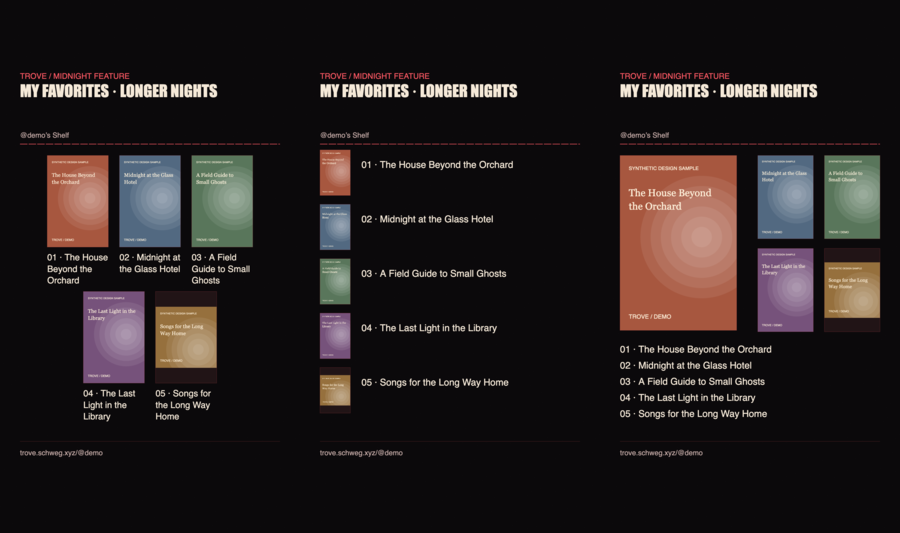
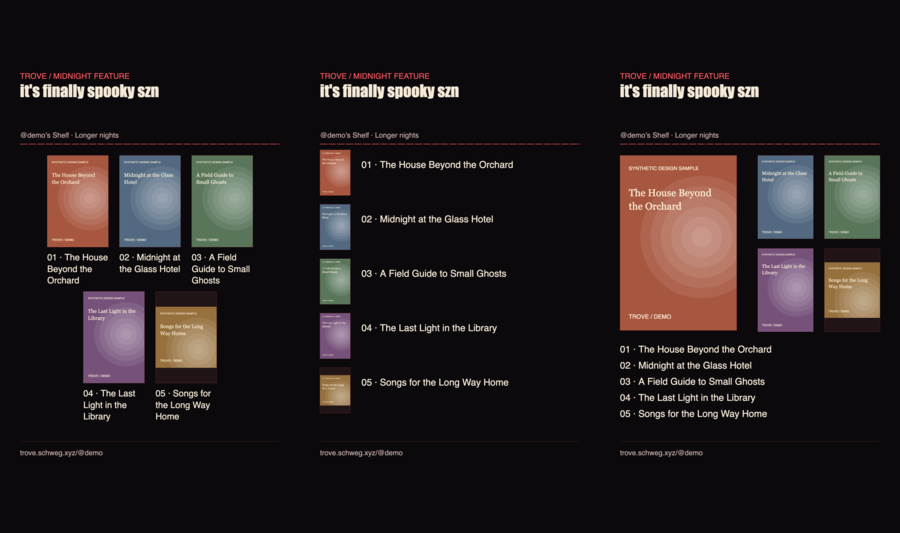
refine: clarify saved preset layout and retain final motion and headline evidence

diff --git a/app/assets/stylesheets/_appearance_menu.scss b/app/assets/stylesheets/_appearance_menu.scss
@@ -1,4 +1,6 @@
 @mixin styles {
+.settings-form .appearance-preset-choices { grid-template-columns: repeat(2, minmax(0, 1fr)); }
+.settings-form .appearance-help { grid-column: 1 / -1; margin: 0; font-size: 14px; line-height: 1.6; color: var(--text-secondary); }
 .appearance-menu { position: relative; flex: 0 0 auto; color: var(--text); }
 .appearance-menu > summary { display: flex; align-items: center; justify-content: center; gap: 8px; min-height: 44px; padding: 8px 10px; border: 1px solid var(--border); border-radius: 8px; cursor: pointer; font-size: 13px; list-style: none; }
 .appearance-menu > summary::-webkit-details-marker { display: none; }

diff --git a/spec/system/halloween_system_spec.rb b/spec/system/halloween_system_spec.rb
@@ -93,6 +93,7 @@ RSpec.describe 'Halloween invitation', type: :system do
     expect(user.theme).to eq('os')
     expect(page).to have_checked_field('Halloween night')
     expect(page).to have_no_button('Turn on Halloween mode')
+    page.execute_script('window.scrollTo(0, 0)')
     capture_ui_screenshot('saved-halloween-settings-desktop')
     visit shelf_path(user.username, category: 'Movie', theme: 'electric')
     find('summary[aria-label="Appearance"]').click
@@ -109,6 +110,9 @@ RSpec.describe 'Halloween invitation', type: :system do
     expect(page).to have_checked_field('Halloween night')
     resize_browser_viewport(390, 844)
     expect(page.evaluate_script('document.documentElement.scrollWidth <= innerWidth')).to be(true)
+    page.execute_script(<<~JS)
+      document.querySelector("#user_seasonal_theme_halloween").closest("fieldset").scrollIntoView({block: "center"})
+    JS
     capture_ui_screenshot('saved-halloween-settings-mobile')
   end
 end

diff --git a/docs/design/shelf-refinements.md b/docs/design/shelf-refinements.md
@@ -40,3 +40,5 @@ A saved custom headline is primary on the showcase, every category page and ever
 DOM and metadata values are escaped. Canvas titles wrap within bounded geometry, with grapheme-aware truncation for long Unicode text and a safe missing-headline fallback. The preview signature version changed so an obsolete card cannot masquerade as a current headline-aware card; owners can explicitly republish their social preview using the existing action. Preview, download and publish share the same renderer.
 
 Existing explicit v2 browser choices are recognized when the only preference change is the newly added default preset field. They retain their prior appearance/Undo snapshot and migrate to the same signed-in preset, while viewer changes or changes to base account preferences still invalidate the old override. This is a one-time explicit-choice migration, not an automatic promotion.
+
+Final focused verification: 28 request examples, 35 JavaScript tests, 14 browser examples, a final seven-example persistence/headline pass and the targeted mobile settings capture passed. Ruby lint inspected 574 files; the final capture adjustment is lint-clean. Native cards now show the shared custom headline and category subtitle. The two real animation captures show improved atmosphere and mascot activation/dismissal without a persistent floating control panel.
